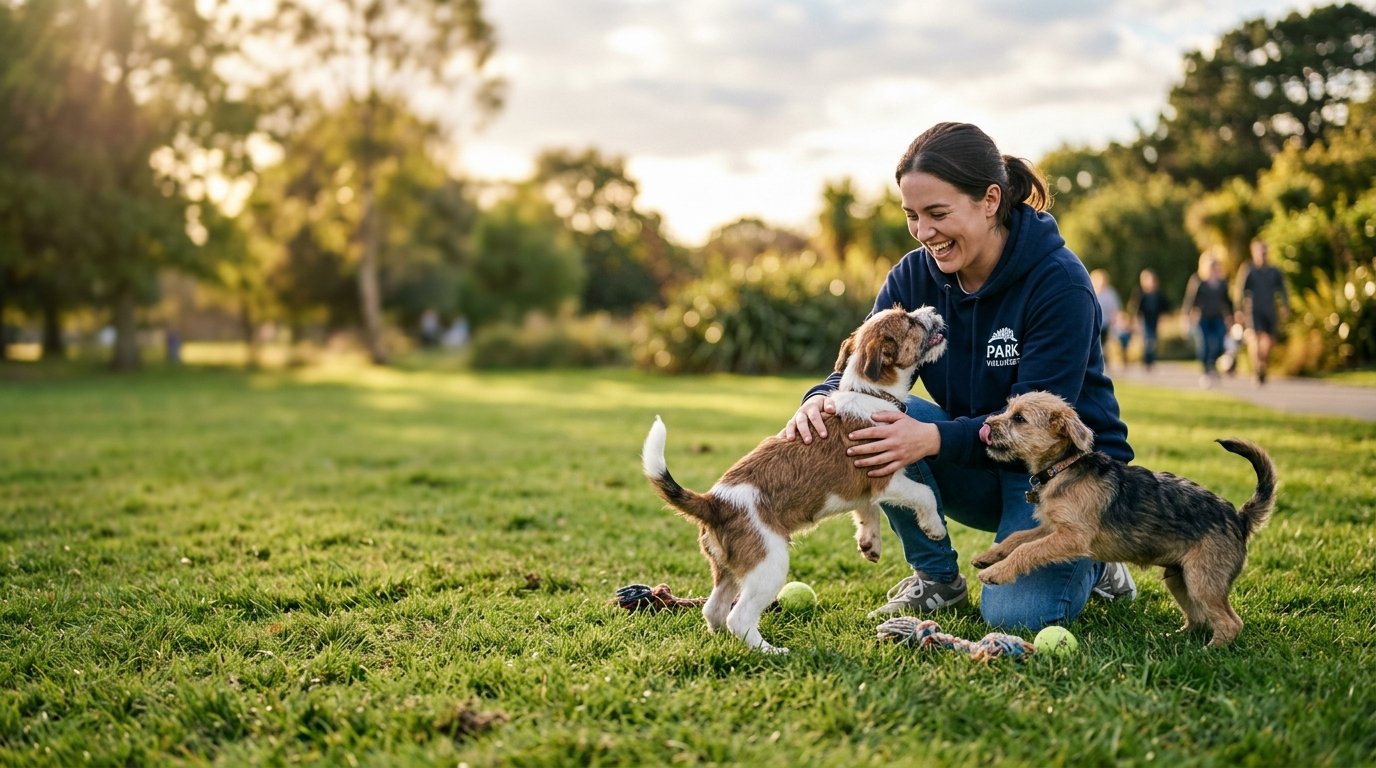
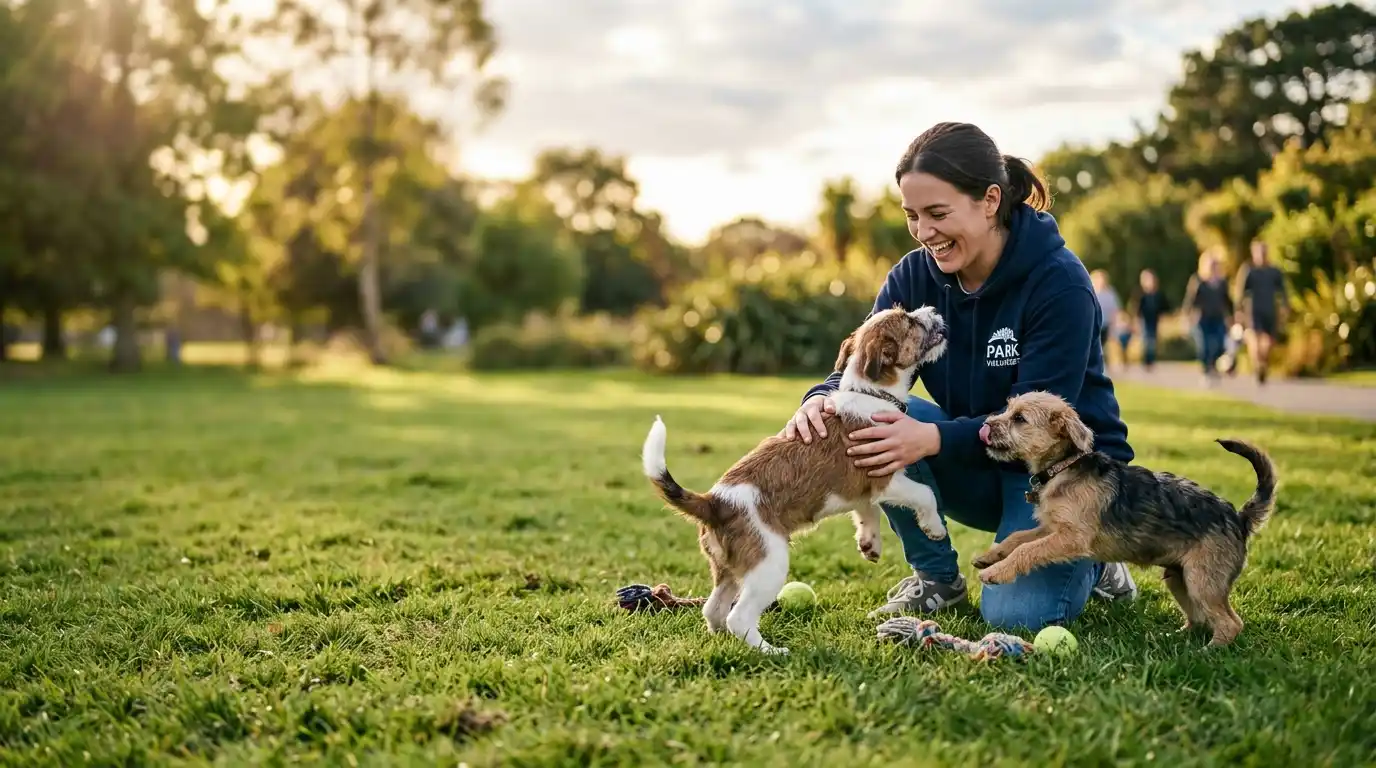
fix(hero): anchor mobile image to the bottom to prevent cropping subjects

Changed region(s): [[0.6875, 0.8125, 0.7188, 0.8438]]

diff --git a/src/pages/Home.tsx b/src/pages/Home.tsx
@@ -141,7 +141,7 @@ export default function Home() {
             md: "url('/hero-desktop.webp')"
           },
           backgroundSize: 'cover',
-          backgroundPosition: { xs: 'center center', md: 'center right' },
+          backgroundPosition: { xs: 'right bottom', md: 'center right' },
           '&::before': {
             content: '""',
             position: 'absolute',
